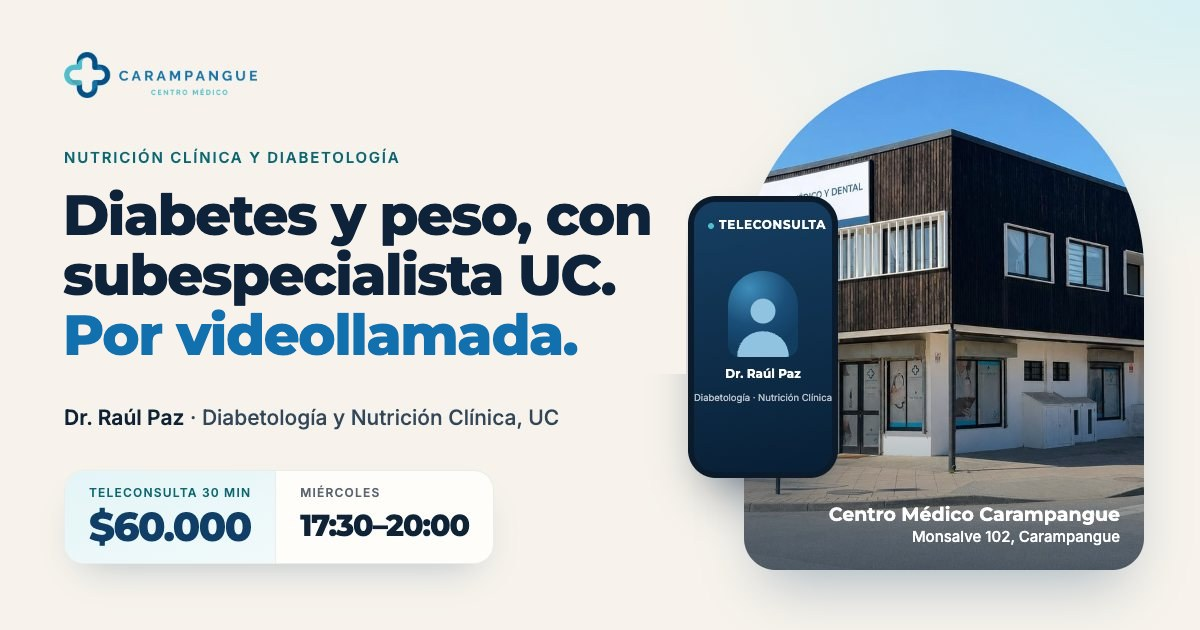
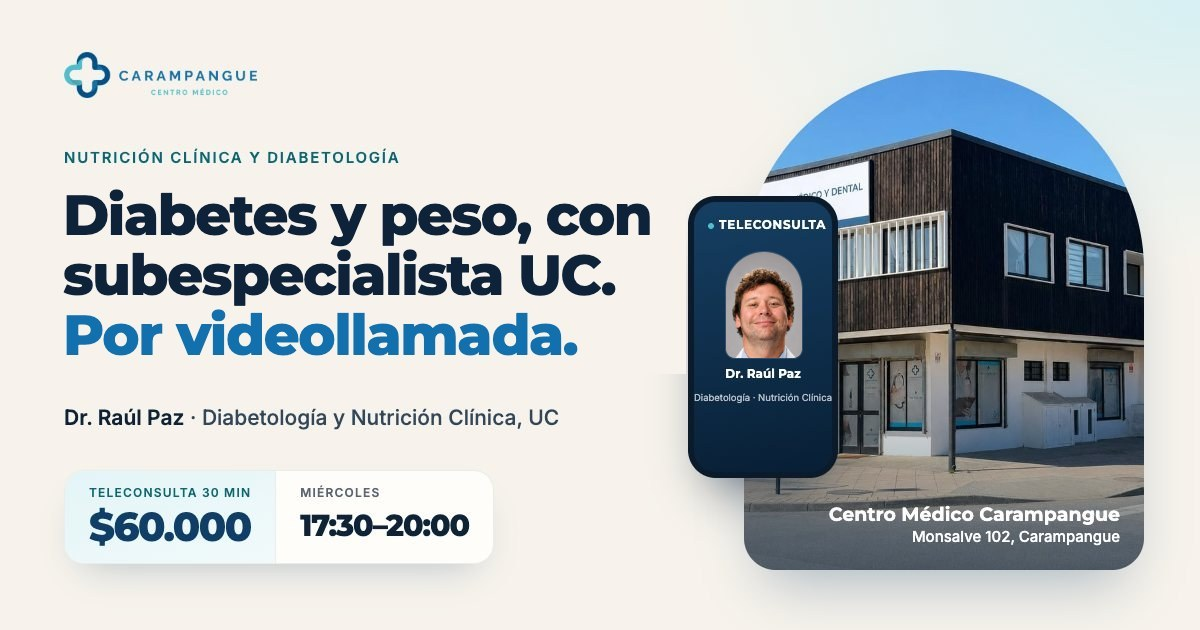
feat(web): nutriologia — foto real del Dr. Raúl Paz (videollamada, retrato, OG)

Changed region(s): [[0.5858, 0.3921, 0.6783, 0.573]]

diff --git a/templates/landing_nutriologia_diabetologia.html b/templates/landing_nutriologia_diabetologia.html
@@ -21,7 +21,7 @@ j=d.createElement(s),dl=l!='dataLayer'?'&l='+l:'';j.async=true;j.src=
 <meta property="og:title" content="Diabetes y peso con subespecialista UC, por videollamada · Dr. Raúl Paz" />
 <meta property="og:description" content="Nutrición Clínica y Diabetología en el Centro Médico Carampangue. Teleconsulta de 30 minutos, $60.000, los miércoles de 17:30 a 20:00. Desde 15 años." />
 <meta property="og:url" content="https://centromedicocarampangue.cl/nutriologia-diabetologia" />
-<meta property="og:image" content="https://agentecmc.cl/static/images/nutriologia-diabetologia/og.jpg" />
+<meta property="og:image" content="https://agentecmc.cl/static/images/nutriologia-diabetologia/og.jpg?v=2" />
 <meta property="og:image:width" content="1200" />
 <meta property="og:image:height" content="630" />
 <meta property="og:image:alt" content="Nutrición Clínica y Diabetología en el Centro Médico Carampangue: teleconsulta con el Dr. Raúl Paz, $60.000, miércoles 17:30 a 20:00" />
@@ -30,7 +30,7 @@ j=d.createElement(s),dl=l!='dataLayer'?'&l='+l:'';j.async=true;j.src=
 <meta name="twitter:card" content="summary_large_image" />
 <meta name="twitter:title" content="Diabetes y peso con subespecialista UC, por videollamada · CMC" />
 <meta name="twitter:description" content="Dr. Raúl Paz, Diabetología y Nutrición Clínica (UC). Teleconsulta $60.000, miércoles 17:30–20:00." />
-<meta name="twitter:image" content="https://agentecmc.cl/static/images/nutriologia-diabetologia/og.jpg" />
+<meta name="twitter:image" content="https://agentecmc.cl/static/images/nutriologia-diabetologia/og.jpg?v=2" />
 <meta name="twitter:site" content="@CMCarampangue" />
 
 <link rel="icon" type="image/png" sizes="192x192" href="https://centromedicocarampangue.cl/static/sitio/cropped-logo-carampangue.png" />
@@ -44,7 +44,7 @@ j=d.createElement(s),dl=l!='dataLayer'?'&l='+l:'';j.async=true;j.src=
   "name": "Centro Médico Carampangue",
   "url": "https://centromedicocarampangue.cl",
   "logo": "https://centromedicocarampangue.cl/wp-content/uploads/2025/08/cropped-logo-carampangue.png",
-  "image": "https://agentecmc.cl/static/images/nutriologia-diabetologia/og.jpg",
+  "image": "https://agentecmc.cl/static/images/nutriologia-diabetologia/og.jpg?v=2",
   "telephone": "+56442965226",
   "address": {
     "@type": "PostalAddress",
@@ -269,13 +269,17 @@ p{margin:0}
 .live{display:inline-flex;align-items:center;gap:6px;color:#fff}
 .live i{width:7px;height:7px;border-radius:50%;background:var(--aqua);box-shadow:0 0 0 0 rgba(79,190,206,.6);animation:live 2.4s var(--ease) infinite}
 @keyframes live{0%{box-shadow:0 0 0 0 rgba(79,190,206,.55)}70%{box-shadow:0 0 0 8px rgba(79,190,206,0)}100%{box-shadow:0 0 0 0 rgba(79,190,206,0)}}
-.tile-main{flex:1;display:flex;flex-direction:column;align-items:center;justify-content:center;gap:16px;padding:0 16px 40px}
+.tile-main{position:relative;z-index:2;flex:1;display:flex;flex-direction:column;align-items:center;justify-content:flex-end;gap:16px;padding:0 16px 18px}
+.scr-photo{position:absolute;inset:0;width:100%;height:100%;object-fit:cover;object-position:50% 22%;z-index:0}
+.scr::after{content:"";position:absolute;inset:0;z-index:1;pointer-events:none;background:linear-gradient(180deg,rgba(8,31,53,.55) 0%,rgba(8,31,53,0) 22%,rgba(8,31,53,0) 55%,rgba(8,31,53,.82) 100%)}
+.scr-top,.ctrls,.tile-me{position:relative;z-index:2}
+.nameplate{text-shadow:0 1px 8px rgba(0,0,0,.35)}
 .arch{position:relative;overflow:hidden;width:118px;height:142px;border-radius:59px 59px 18px 18px;background:radial-gradient(90% 70% at 30% 20%,#3E8DBA,#1A4E78 60%,#123D61);color:#8FC3E0;box-shadow:inset 0 0 0 1px rgba(255,255,255,.12)}
 .arch svg{position:absolute;left:50%;bottom:0;width:86%;height:78%;transform:translateX(-50%);opacity:.9}
 .nameplate{text-align:center;color:#fff}
 .nameplate b{display:block;font:700 16px/1.2 var(--display);letter-spacing:-.01em}
 .nameplate span{display:block;font-size:11.5px;color:rgba(255,255,255,.7);margin-top:4px}
-.tile-me{position:absolute;right:12px;top:60px;width:62px;height:80px;border-radius:14px;background:linear-gradient(170deg,#F6EBDD,#E7D6BF);overflow:hidden;
+.tile-me{position:absolute !important;right:12px;top:60px;width:62px;height:80px;border-radius:14px;background:linear-gradient(170deg,#F6EBDD,#E7D6BF);overflow:hidden;
   box-shadow:0 8px 18px -8px rgba(0,0,0,.5)}
 .tile-me svg{position:absolute;left:50%;bottom:0;width:50px;height:56px;margin-left:-25px;color:#B78F63}
 .tile-me span{position:absolute;left:5px;top:5px;font:600 7.5px/1 var(--body);letter-spacing:.04em;color:#6B4B2A;background:rgba(255,253,249,.8);padding:3px 5px;border-radius:5px}
@@ -399,7 +403,8 @@ p{margin:0}
 /* ── El especialista ── */
 .doc-grid{display:grid;grid-template-columns:minmax(0,1fr);gap:28px}
 .doc-card{background:var(--papel);border:1px solid var(--linea-2);border-radius:var(--r-xl);padding:22px;display:grid;grid-template-columns:92px minmax(0,1fr);gap:18px;align-items:center;box-shadow:var(--shadow-sm)}
-.portrait{margin:0;width:92px;height:114px;border-radius:46px 46px 14px 14px;display:grid;place-items:center;background:linear-gradient(160deg,#2A6E9A,var(--navy));color:#fff;font:700 30px/1 var(--display);letter-spacing:-.02em}
+.portrait img{width:100%;height:100%;object-fit:cover;display:block}
+.portrait{overflow:hidden;margin:0;width:92px;height:114px;border-radius:46px 46px 14px 14px;display:grid;place-items:center;background:linear-gradient(160deg,#2A6E9A,var(--navy));color:#fff;font:700 30px/1 var(--display);letter-spacing:-.02em}
 .doc-card .role{font:600 11px/1.3 var(--body);letter-spacing:.1em;text-transform:uppercase;color:var(--aqua-ink)}
 .doc-card h3{font-size:clamp(1.5rem,1.2rem + 1vw,2rem);margin:6px 0 6px;letter-spacing:-.025em}
 .doc-card .uni{font-size:14px;line-height:1.45;color:var(--tinta-2)}
@@ -730,7 +735,7 @@ height="0" width="0" style="display:none;visibility:hidden"></iframe></noscript>
       <div class="nav-menu">
         <a href="#es-para-ti">¿Es para mí?</a>
         <a href="#como-funciona">Cómo funciona</a>
-        <a href="#especialista">El especialista</a>
+        <a href="#especialista">El subespecialista</a>
         <a href="#preguntas">Preguntas</a>
         <a href="#ubicacion">El centro</a>
       </div>
@@ -788,12 +793,12 @@ height="0" width="0" style="display:none;visibility:hidden"></iframe></noscript>
       </div>
 
       <div class="hero-media in" style="--d:3">
-        <div class="stage" role="img" aria-label="Ilustración de una teleconsulta: el Dr. Raúl Paz en la pantalla del celular y tú, desde tu casa. Atiende los miércoles a las 17:30, 18:00, 18:30, 19:00 y 19:30.">
+        <div class="stage" role="img" aria-label="Teleconsulta: el Dr. Raúl Paz en la pantalla del celular y tú, desde tu casa. Atiende los miércoles a las 17:30, 18:00, 18:30, 19:00 y 19:30.">
           <div class="phone" aria-hidden="true">
             <div class="scr">
               <div class="scr-top"><span class="live"><i></i>Teleconsulta</span><span>30 min</span></div>
+              <img class="scr-photo" src="/static/images/nutriologia-diabetologia/dr-raul-paz-video.webp" width="440" height="781" alt="" fetchpriority="high" decoding="async">
               <div class="tile-main">
-                <div class="arch"><svg><use href="#i-person"/></svg></div>
                 <div class="nameplate"><b>Dr. Raúl Paz</b><span>Diabetología · Nutrición Clínica</span></div>
               </div>
               <div class="tile-me"><span>Tú, en tu casa</span><svg><use href="#i-person"/></svg></div>
@@ -802,7 +807,7 @@ height="0" width="0" style="display:none;visibility:hidden"></iframe></noscript>
           </div>
           <div class="cred" aria-hidden="true">
             <span class="ic"><svg><use href="#i-cap"/></svg></span>
-            <p><b>Especialista UC</b>Diabetología y Nutrición Clínica</p>
+            <p><b>Subespecialista UC</b>Diabetología y Nutrición Clínica</p>
           </div>
           <div class="slots num" aria-hidden="true">
             <p class="k">Cada miércoles</p>
@@ -810,7 +815,7 @@ height="0" width="0" style="display:none;visibility:hidden"></iframe></noscript>
             <ul><li>17:30</li><li>18:00</li><li>18:30</li><li>19:00</li><li>19:30</li></ul>
           </div>
         </div>
-        <p class="stage-cap">Ilustración: así se ve la consulta en tu celular.</p>
+        <p class="stage-cap">Así se ve la consulta en tu celular.</p>
       </div>
     </div>
 
@@ -956,15 +961,15 @@ height="0" width="0" style="display:none;visibility:hidden"></iframe></noscript>
     <div class="doc-grid">
       <div class="doc-left">
         <div class="sec-head rv" style="margin-bottom:24px">
-          <span class="kicker">El especialista</span>
+          <span class="kicker">El subespecialista</span>
           <h2 id="doc-h2">Un médico para la diabetes, <em>el peso y el metabolismo.</em></h2>
         </div>
         <div class="doc-card rv" style="--d:1">
-          <figure class="portrait" data-foto="pendiente" aria-hidden="true">RP</figure>
+          <figure class="portrait"><img src="/static/images/nutriologia-diabetologia/dr-raul-paz-retrato.webp?v=2" width="240" height="296" alt="Dr. Raúl Paz" loading="lazy" decoding="async"></figure>
           <div>
             <span class="role">Nutrición Clínica y Diabetología</span>
-            <h3>Dr. Raúl Paz</h3>
-            <p class="uni">Especialista en <b>Diabetología</b> y en <b>Nutrición Clínica</b>. Pontificia Universidad Católica de Chile.</p>
+            <h3>Dr. Raúl&nbsp;Paz</h3>
+            <p class="uni">Subespecialista en <b>Diabetología</b> y en <b>Nutrición Clínica</b>. Pontificia Universidad Católica de Chile.</p>
           </div>
         </div>
         <p class="doc-lead rv" style="--d:2">Es médico: <b>evalúa, pide exámenes e indica tratamiento</b> cuando corresponde. Si lo buscas como nutriólogo o diabetólogo, es él.</p>
